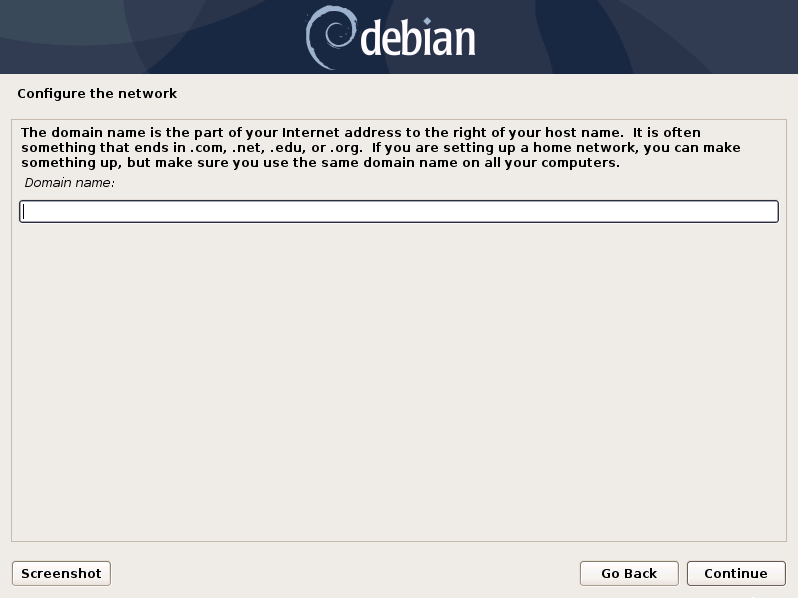
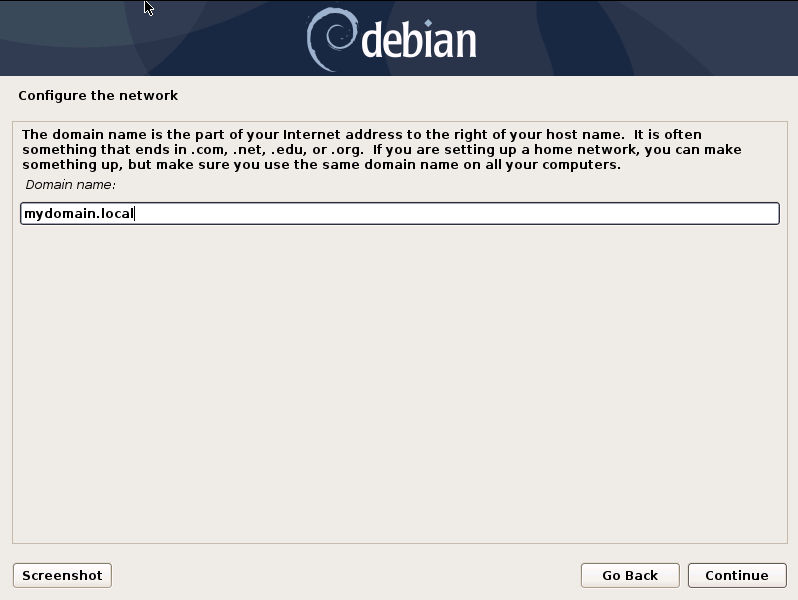
refactor: add warning about fqdn settings during installation

diff --git a/usage/setup.rst b/usage/setup.rst
@@ -88,7 +88,7 @@ If DHCP is available, network parameters will be configured automatically. Witho
    :alt: Configure the network
 
 .. warning::
-   **Important:** Make sure that the combination of hostname and domain creates an FQDN that can be resolved from the endsystems on which you intend to install the ASGARD agents. If you've configured a FQDN (hostname + domain) that cannot be resolved on the clients, no agent will be able to find and reconnect to the ASGARD server. 
+   **Important:** Make sure that the combination of hostname and domain creates an FQDN that can be resolved from the endsystems on which you intend to install the ASGARD agents. If you've configured a FQDN (hostname + domain) that cannot be resolved on the clients, no agent will be able to find and connect to the ASGARD server. 
 
 .. figure:: ../images/setup_network7.png
    :target: ../_images/setup_network7.png

diff --git a/usage/requirements.rst b/usage/requirements.rst
@@ -189,6 +189,11 @@ DNS
 
 ASGARD needs to be able to resolve internal and external IP addresses.
 
+.. warning:: 
+  Please make sure that you install your ASGARD with a **domain name** (see `the following image <../_images/setup_network7.png>`_). If you do not set the Domain Name and install the ASGARD package, your clients won't be able to connect to your ASGARD.
+
+  All components you install should have a proper domain name configured to avoid issues further during the configuration.
+
 Antivirus or EDR Exclusions
 ---------------------------
 
